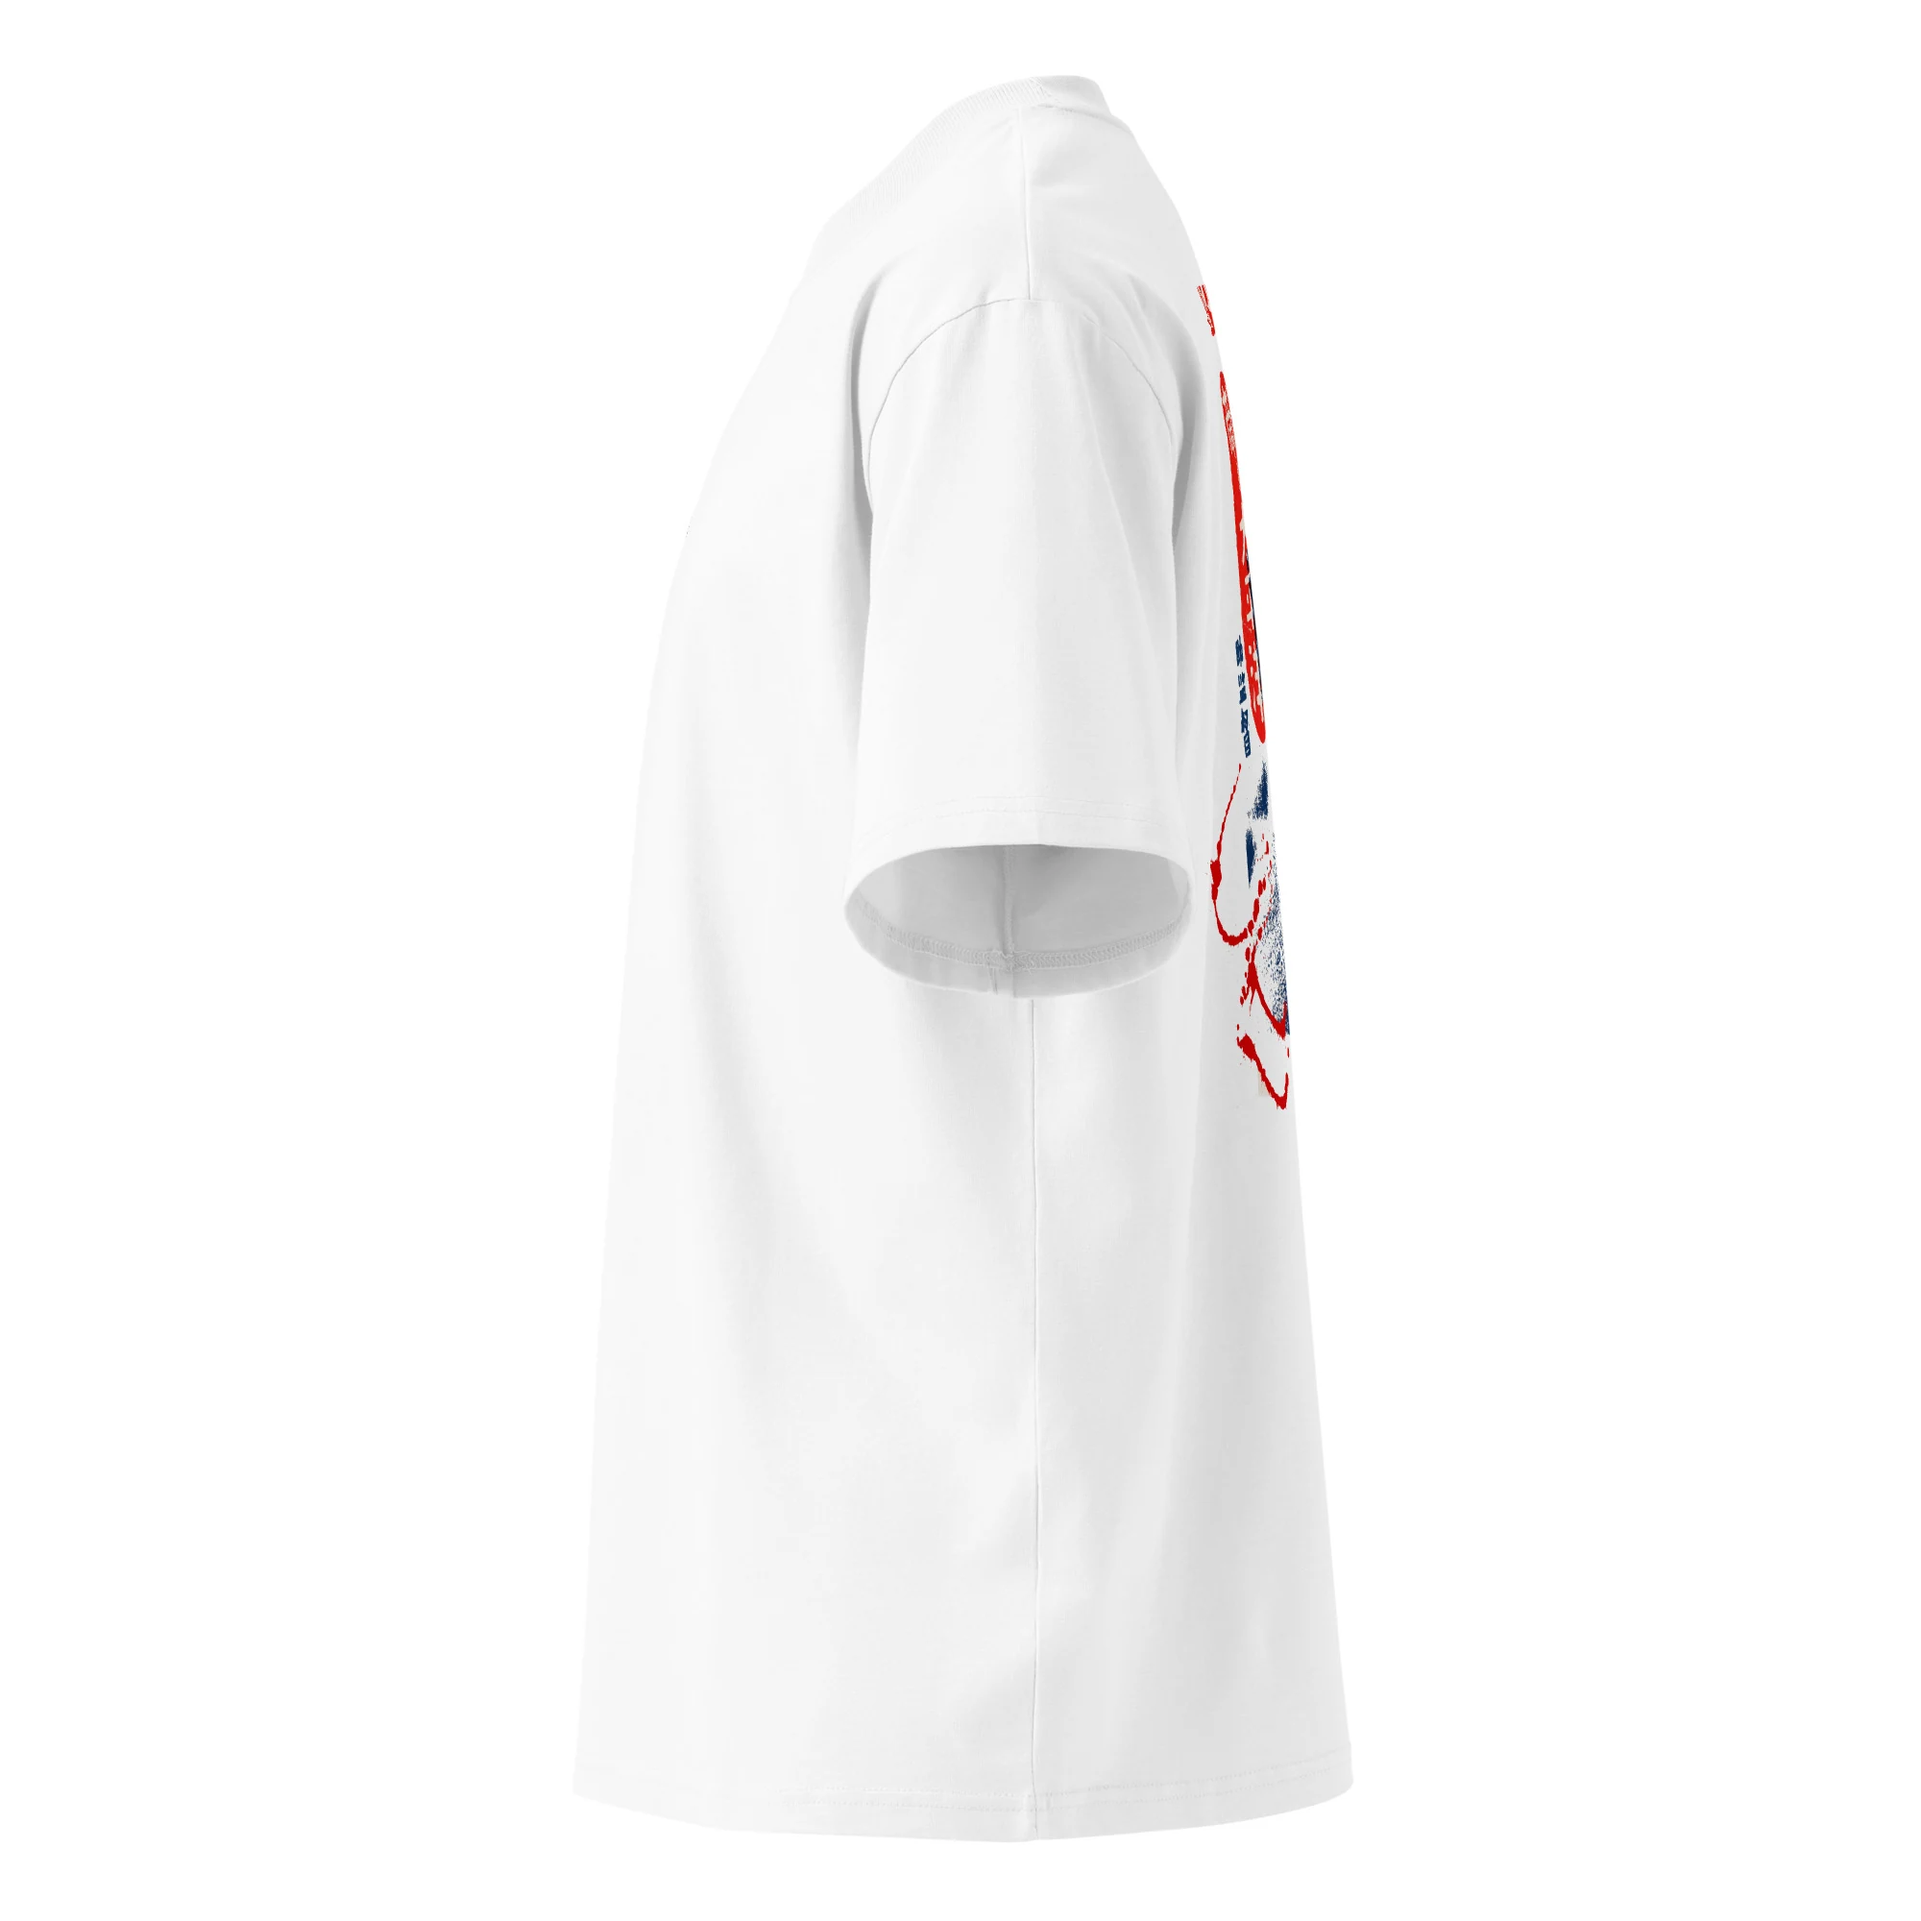
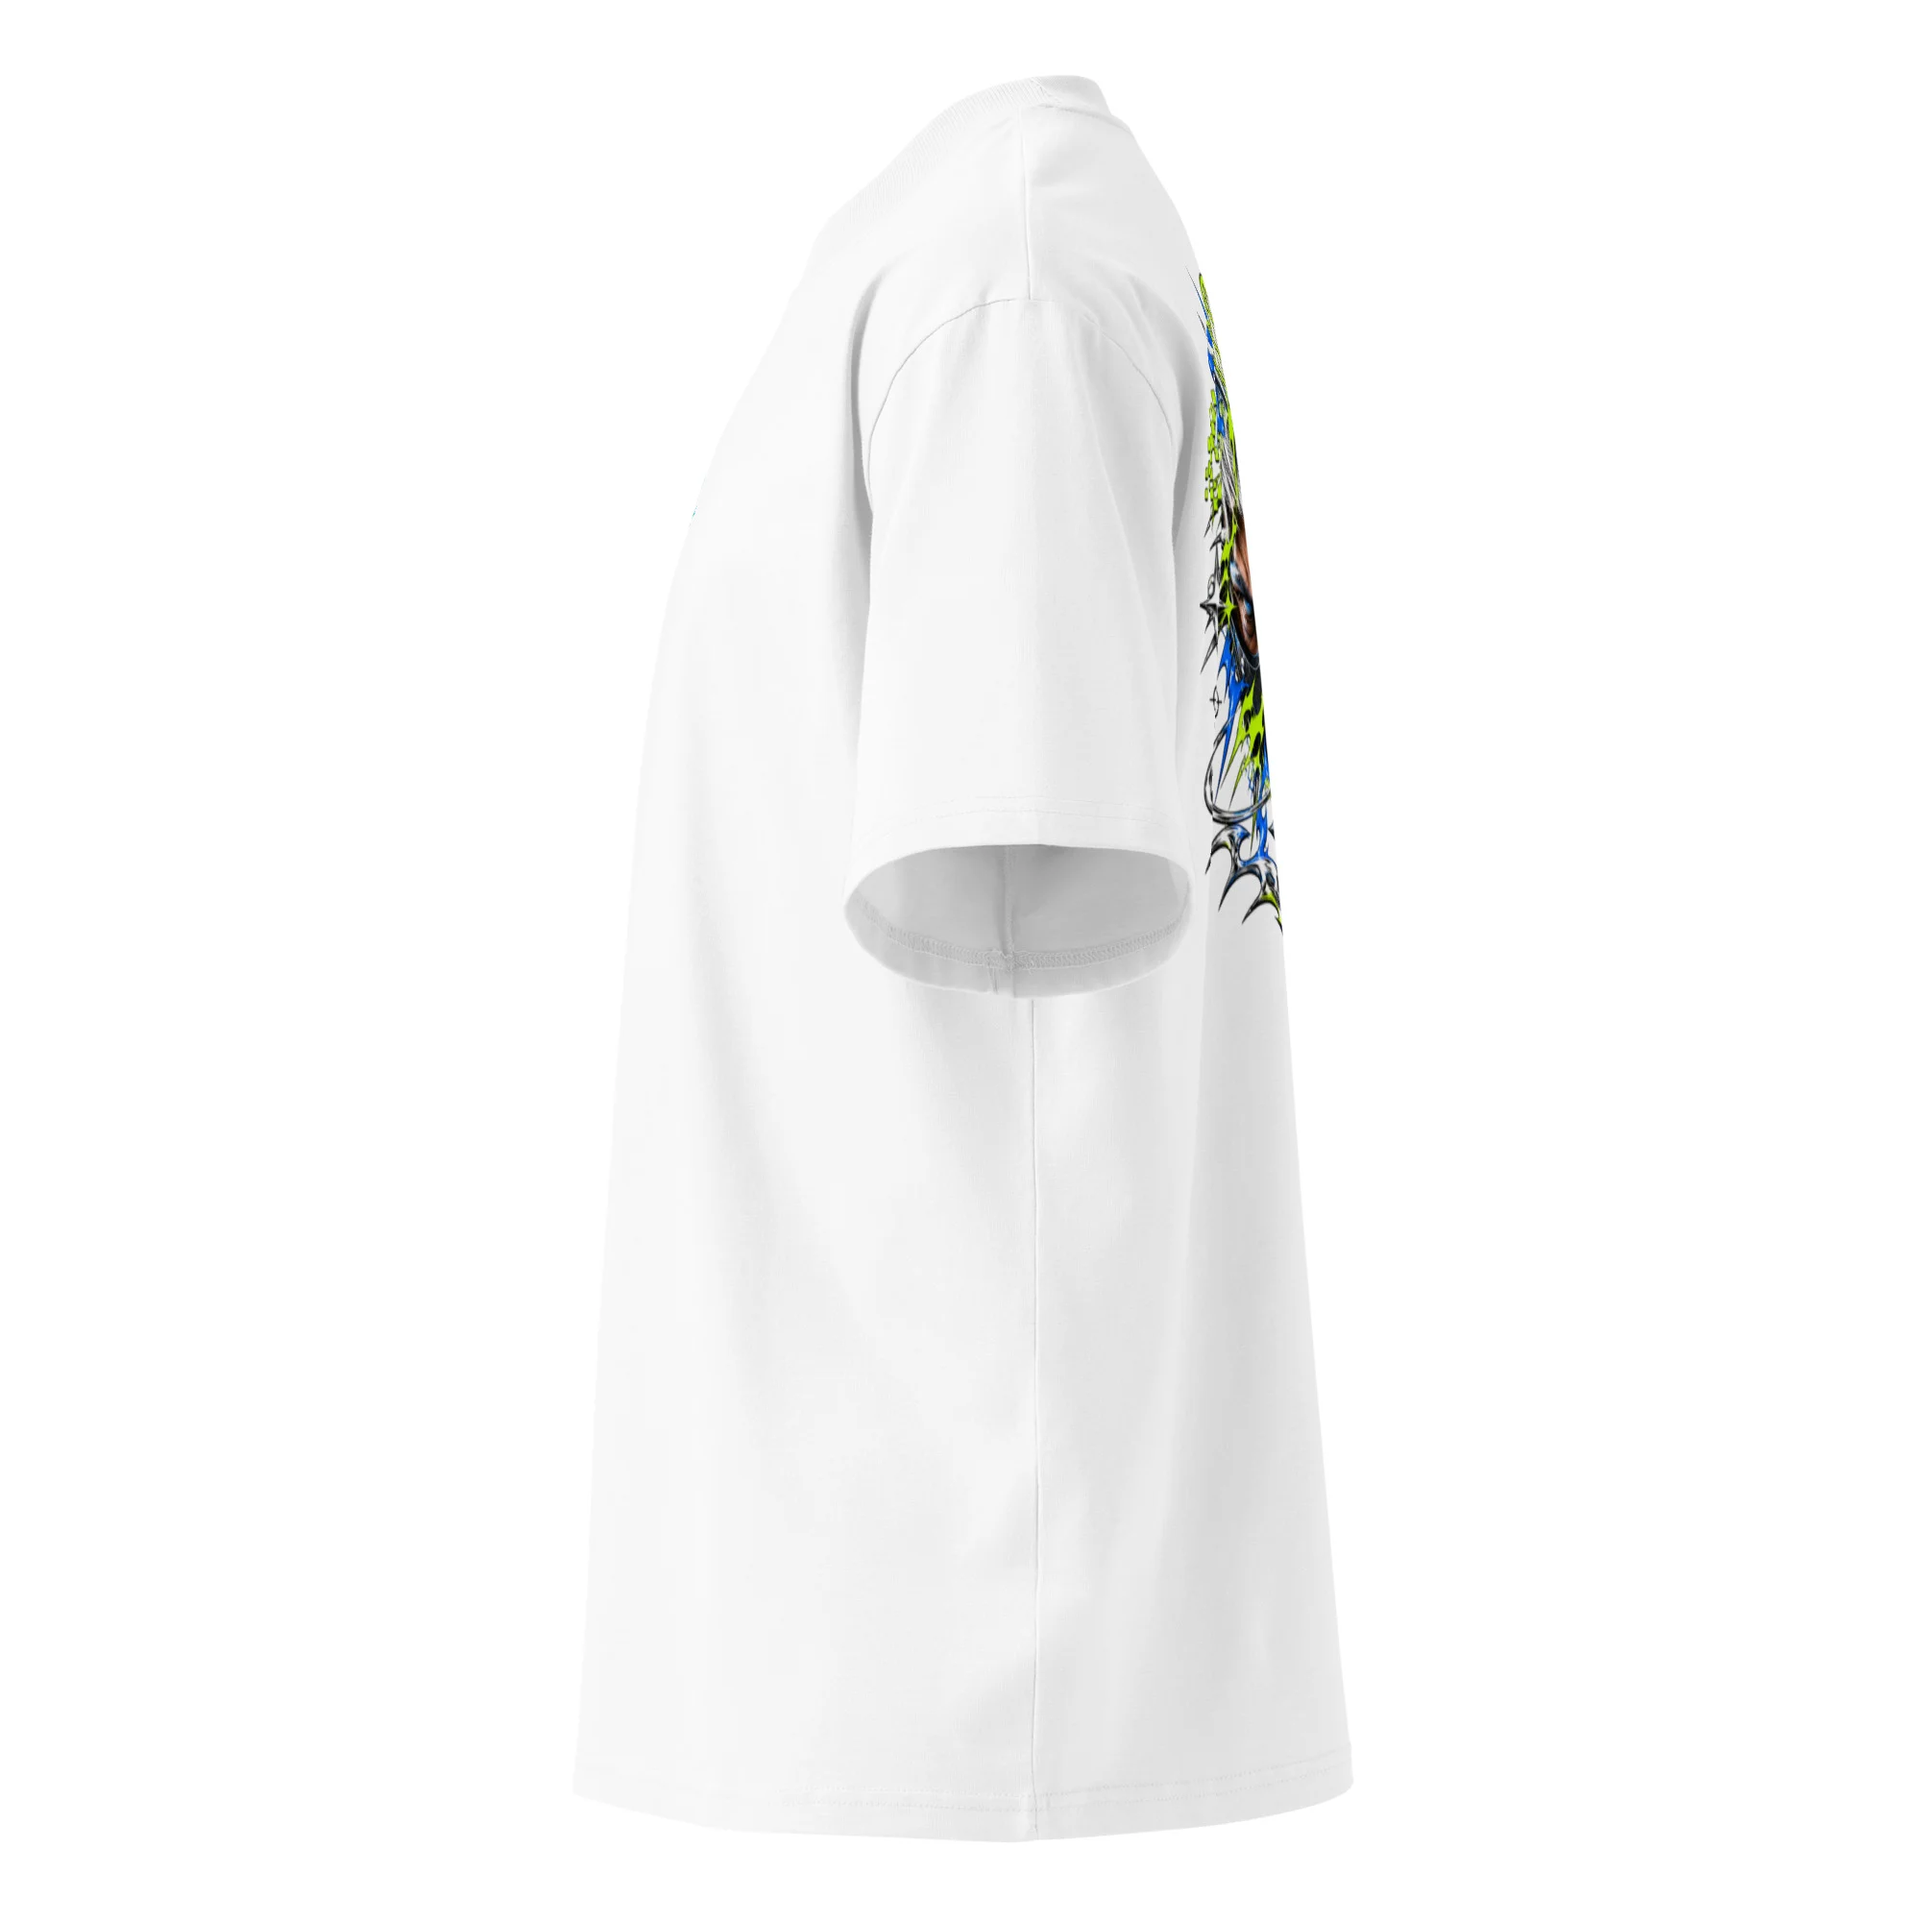
Add Phantom Oversized Tees (black, white)
Claude-Session: https://claude.ai/code/session_01WtkVJpWv49oULHSXpoRPMg

Changed region(s): [[0.62, 0.155, 0.682, 0.589]]

diff --git a/index.html b/index.html
@@ -748,6 +748,8 @@ const PRODUCTS = [
   {id:'t4',cat:'honterx',name:"Wild Paw Oversized Tee",price:45,colors:['white'],kind:'tee',imgs:["img/p/t4-back.webp", "img/p/t4-front.webp", "img/p/t4-left.webp", "img/p/t4-right.webp"],desc:"Oversized, high-neck organic cotton tee with a small paw print on the chest."},
   {id:'t5',cat:'honterx',name:"Shadow Paw Oversized Tee",price:45,colors:['white'],kind:'tee',imgs:["img/p/t5-back.webp", "img/p/t5-front.webp", "img/p/t5-left.webp", "img/p/t5-right.webp"],desc:"Oversized, high-neck organic cotton tee with a small paw print on the chest."},
   {id:'t6',cat:'honterx',name:"Signature Oversized Tee",price:45,colors:['white'],kind:'tee',boxy:true,otee:true,imgs:["img/p/t6-front.webp", "img/p/t6-back.webp", "img/p/t6-left.webp", "img/p/t6-right.webp"],desc:"Oversized organic cotton tee with dropped shoulders and a bold Høntérx graphic on the chest and sleeves."},
+  {id:'t7',cat:'honterx',name:"Phantom Oversized Tee (Black)",price:45,colors:['black'],kind:'tee',boxy:true,otee:true,tfeat:'a small paw print on the chest and a bold statement graphic across the back',imgs:["img/p/t7-front.webp", "img/p/t7-back.webp", "img/p/t7-left.webp", "img/p/t7-right.webp"],desc:"Oversized organic cotton tee with dropped shoulders, a small paw on the chest and a bold graphic on the back."},
+  {id:'t8',cat:'honterx',name:"Phantom Oversized Tee (White)",price:45,colors:['white'],kind:'tee',boxy:true,otee:true,tfeat:'a small paw print on the chest and a bold statement graphic across the back',imgs:["img/p/t8-front.webp", "img/p/t8-back.webp", "img/p/t8-left.webp", "img/p/t8-right.webp"],desc:"Oversized organic cotton tee with dropped shoulders, a small paw on the chest and a bold graphic on the back."},
   {id:'t6',cat:'honterx',name:"Prism Paw Oversized Tee",price:45,colors:['white'],kind:'tee',imgs:["img/p/t6-back.webp", "img/p/t6-front.webp", "img/p/t6-left.webp", "img/p/t6-right.webp"],desc:"Oversized, high-neck organic cotton tee with a small paw print on the chest."},
   {id:'t8',cat:'honterx',name:"Liberty Paw Oversized Tee",price:45,colors:['white'],kind:'tee',imgs:["img/p/t8-back.webp", "img/p/t8-front.webp", "img/p/t8-left.webp", "img/p/t8-right.webp"],desc:"Oversized, high-neck organic cotton tee with a small paw print on the chest."},
   {id:'t10',cat:'honterx',name:"Crimson Paw Oversized Tee",price:45,colors:['white'],kind:'tee',imgs:["img/p/t10-back.webp", "img/p/t10-front.webp", "img/p/t10-left.webp", "img/p/t10-right.webp"],desc:"Oversized, high-neck organic cotton tee with a small paw print on the chest."},
@@ -845,7 +847,7 @@ function detailsOf(p){
   const hood = p.cat === 'hoodies', cap = p.cat === 'caps';
   const sw = p.cat === 'sweatshirts';
   const ot = p.otee, rg = p.raglan;
-  const long = ot ? `The ${p.name} is an urban, oversized tee in 100% organic combed ring-spun cotton. A wide neck and dropped shoulders give it a relaxed, trend-led drape, with a bold Høntérx graphic across the chest and down both sleeves.`
+  const long = ot ? `The ${p.name} is an urban, oversized tee in 100% organic combed ring-spun cotton. A wide neck and dropped shoulders give it a relaxed, trend-led drape, with ${p.tfeat||'a bold Høntérx graphic across the chest and down both sleeves'}.`
     : rg ? `The ${p.name} is extra soft and made to be worn on repeat. Organic cotton outside, a brushed lining inside, raglan sleeves and a jersey-lined hood give it an easy, regular fit that works for almost any occasion, finished with a neat embroidered emblem on the chest.`
     : sw ? `The ${p.name} is made to be worn far more than it hangs. Smooth 100% organic cotton outside keeps a clean look, while the brushed fleece inside is soft against the skin. Raglan sleeves, neck tape and 2×2 ribbed cuffs, collar and hem finish it, with a neat embroidered ${p.emb||'paw'} on the chest.`
     : cap ? `The ${p.name} is a structured Flexfit cap built to hold its shape. A 6-panel, mid-profile crown with a low-profile embroidery area carries a bold embroidered paw, finished with a curved visor and a silver undervisor. A stretch band gives a secure, comfortable fit in two sizes.`

diff --git a/api/checkout.js b/api/checkout.js
@@ -28,6 +28,8 @@ const PRODUCTS = {
   h17: { name: "H\u00f8nt\u00e9rx Sky Paw Hoodie", price: 85 },
   h18: { name: "H\u00f8nt\u00e9rx Royal Gold Paw Hoodie", price: 85 },
   t6: { name: "H\u00f8nt\u00e9rx Signature Oversized Tee", price: 45 },
+  t7: { name: "H\u00f8nt\u00e9rx Phantom Oversized Tee (Black)", price: 45 },
+  t8: { name: "H\u00f8nt\u00e9rx Phantom Oversized Tee (White)", price: 45 },
   h19: { name: "H\u00f8nt\u00e9rx Midnight Raglan Hoodie", price: 85 },
   h20: { name: "H\u00f8nt\u00e9rx Ivory Raglan Hoodie", price: 85 },
   h21: { name: "H\u00f8nt\u00e9rx Gold Raglan Hoodie", price: 85 },
